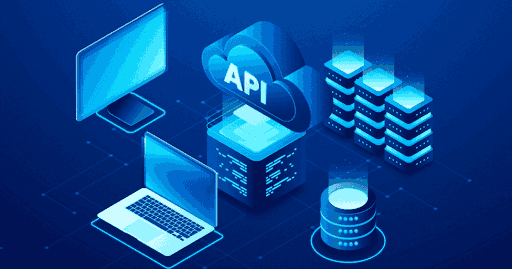
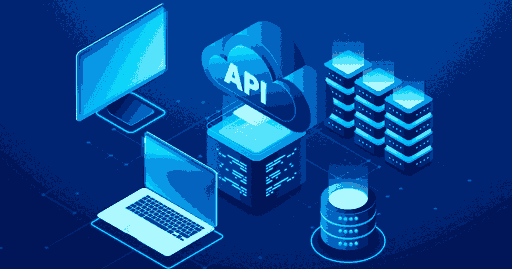
Recompress project images

diff --git a/index.html b/index.html
@@ -231,7 +231,7 @@
             class="project-card glass-effect rounded-xl overflow-hidden transition-all flex flex-col group border border-border-glass">
             <div class="relative aspect-video overflow-hidden">
               <img class="project-image w-full h-full object-cover transition-transform duration-500"
-                src="https://lh3.googleusercontent.com/aida/AP1WRLvcqdmQoMhEjZ3Dlp4ryrZJ09uZrcT1qHK4-O7dZ2TAz4vHz-LQOCL9zsA-q8sBgOg-Tc_mI2wwZ9Gsyqg36hsCVj80JF6S4_xgwBjX_u8vUe2WNFoqMFjByzw1xsO-joXBYnhMi4BEeGegWrMiqBmsLi3U_Y9b33VsHefeuBYvJaTsi0ncKbzpdGU-Fb5-kcLH88lmq6O0YFQkZe2aQUlr-DJ7EYC--zAahrCd3YX_YVA-MHSsgKGRgJhR"
+                src="./images/coursebooking_app.jpg"
                 alt="Course Booking App">
             </div>
             <div class="p-6 flex flex-col flex-grow space-y-4">